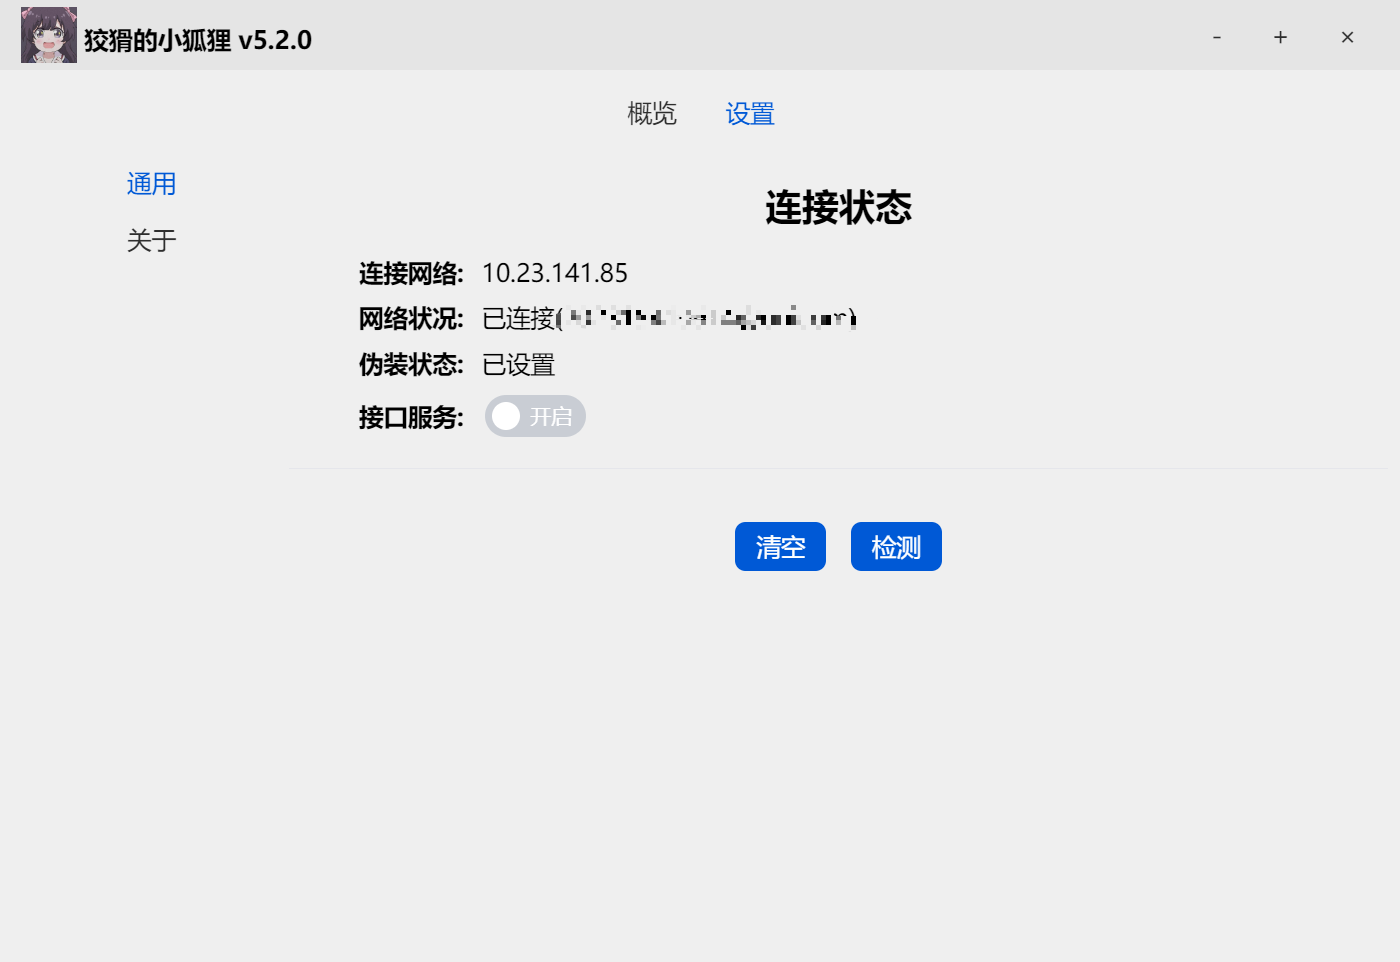
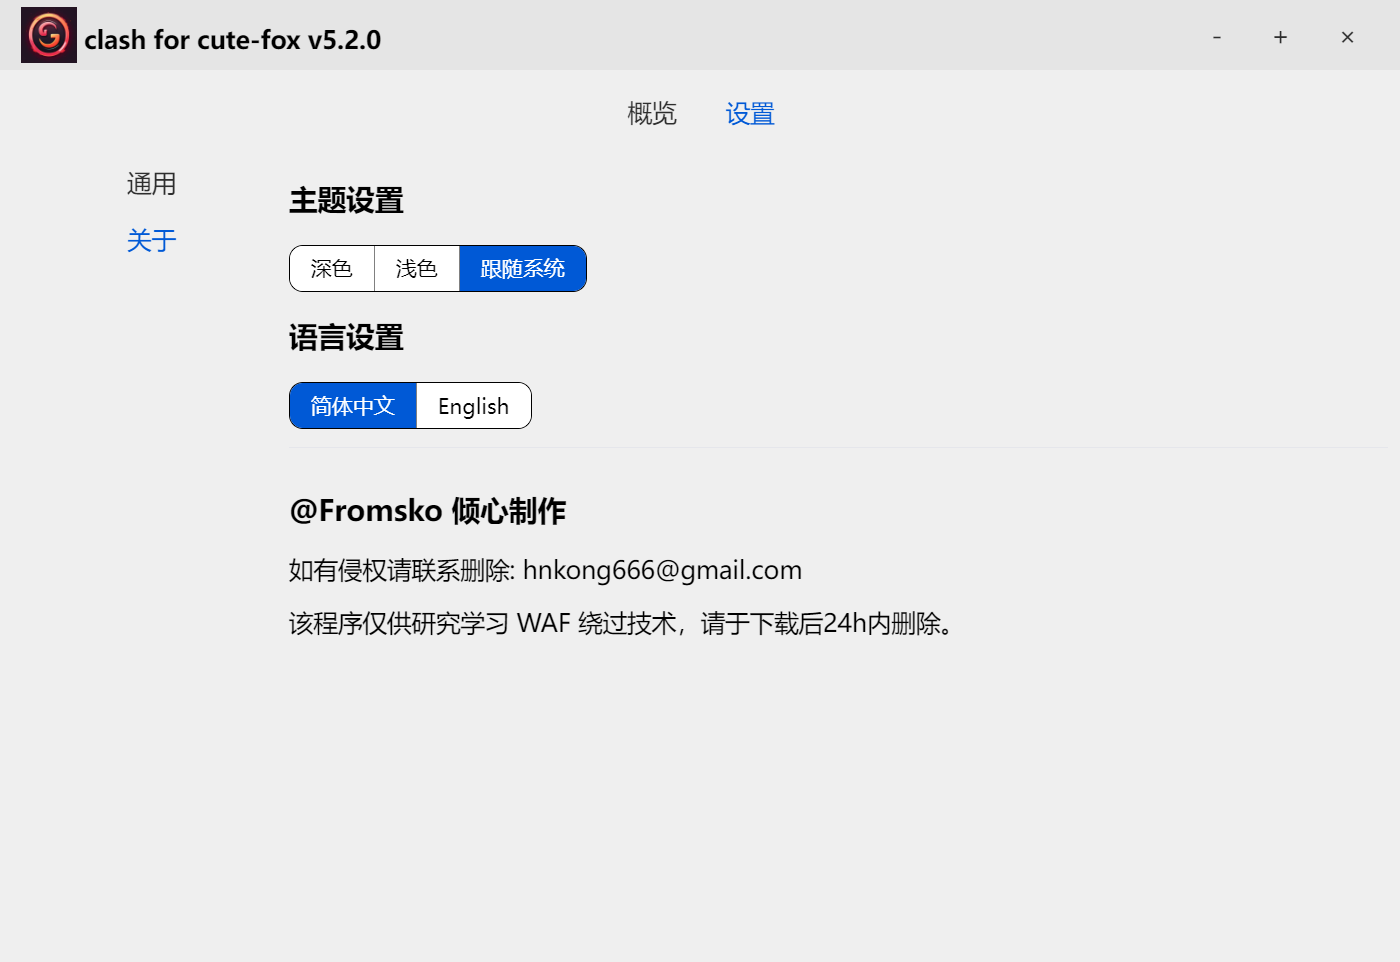
add some img.

diff --git a/README.md b/README.md
@@ -1,6 +1,8 @@
 # Dr-net
 
-Dr.com 校园网绕过（模拟登录）
+Dr.com 校园网 WAF 绕过（模拟登录）
+
+> 仅适用于 HNIU 校园网
 
 ## 开发
 
@@ -32,6 +34,8 @@ Dr.com 校园网绕过（模拟登录）
   ![](./backend/res/index.png)
 - `管理页面`
   ![](./backend/res/config.png)
+- `连接页面`
+  ![](./backend/res/连接状态.png)
 
 ## 使用
 
@@ -78,4 +82,9 @@ Dr.com 校园网绕过（模拟登录）
 
 ## 鸣谢
 
-- 雏形 <a href="https://github.com/Fromsko/Dr-net">https://github.com/Fromsko/Dr-net</a>
+- [wails](https://wails.io) - GO语言流行的GUI库
+- [arp-scan](https://github.com/QbsuranAlang/arp-scan-windows-) - C 实现的`arp`扫描
+- [scanPort](https://github.com/xs25cn/scanPort) - Go 实现的端口扫描工具
+- [fyne](https://github.com/fyne-io/fyne) - Go 流行的`GUI`框架
+- [qinglong](https://github.com/whyour/qinglong) - 定时任务管理平台
+- [port-forward](https://github.com/tavenli/port-forward) - Go 实现的端口转发工具
